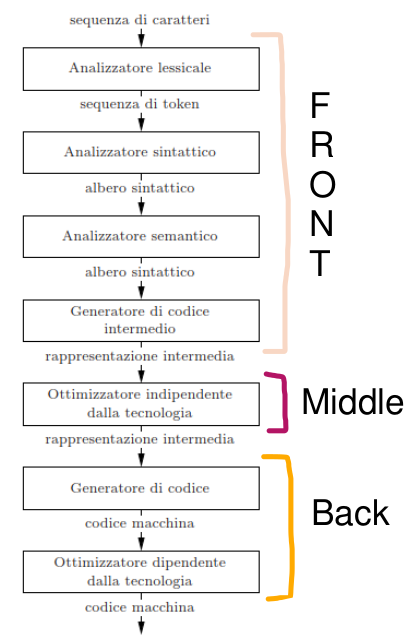
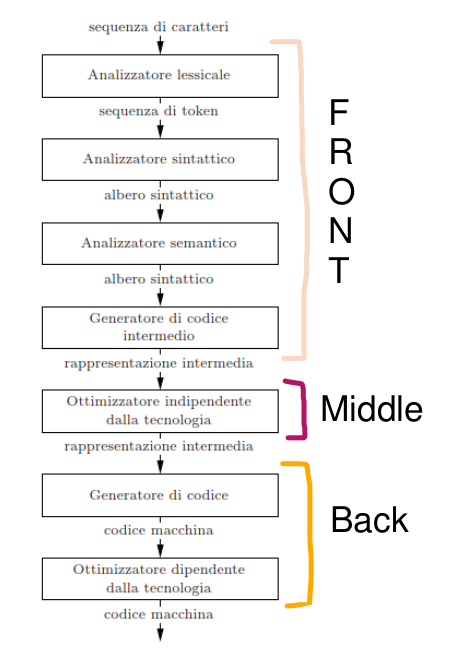
Clean up

diff --git a/README.md b/README.md
@@ -1,0 +1,36 @@
+# My First LLVM Compiler
+
+In this repository you can find the implementation of a compiler. <br>
+The compiler is divided into <b>Front-End</b> and <b>Middle-End</b>. <br>
+The <b>Back-End</b> part is not implemented 🚫 
+
+
+## Introduction
+
+### What is the purpose of a compiler?
+
+A compiler translates code written in a high-level programming language into machine code that a computer can understand. In more detail, a compiler is a special type of software that serves as a translator between the programmer and the computer.
+
+
+### Anatomy of a compiler
+
+<table>
+    <tr>
+        <td><img src="Front-End/Teoria/img/toolchain.png"></td>
+        <td><img src="Front-End/Teoria/img/istruction_translate.png"></td>
+    </tr>
+</table>
+
+
+### Compiler toolchain
+
+<img src="Front-End/Teoria/img/toolchain2.png"></td>
+
+<br>
+
+## Dependencies
+
+The Front-End and Middle-End have different versions of LLVM and different dependencies. <br>
+Each project directory contains a README file that specifies the requirements and
+explain the function of the software.
+
